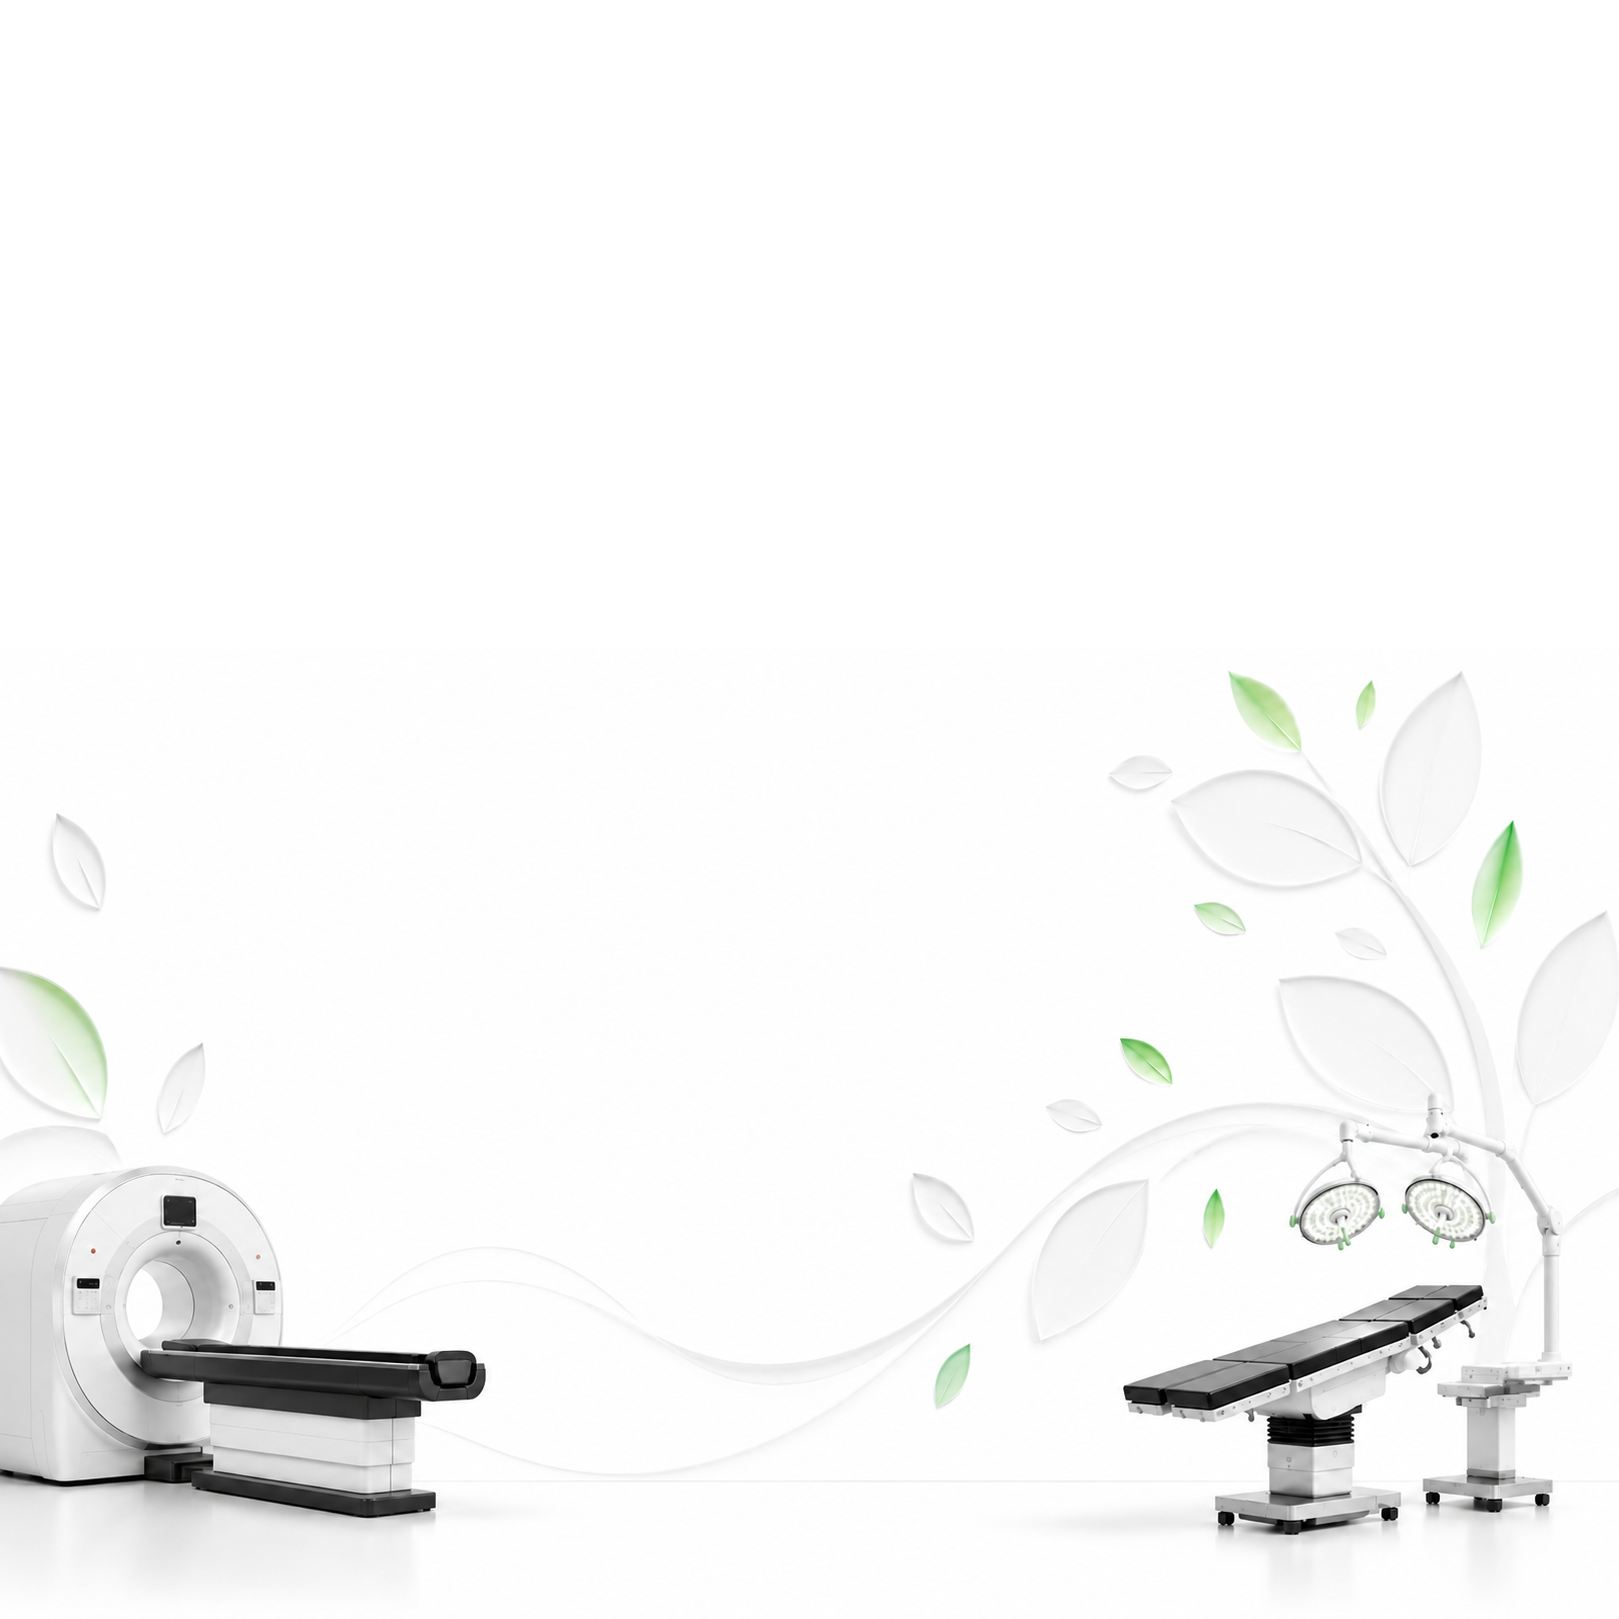
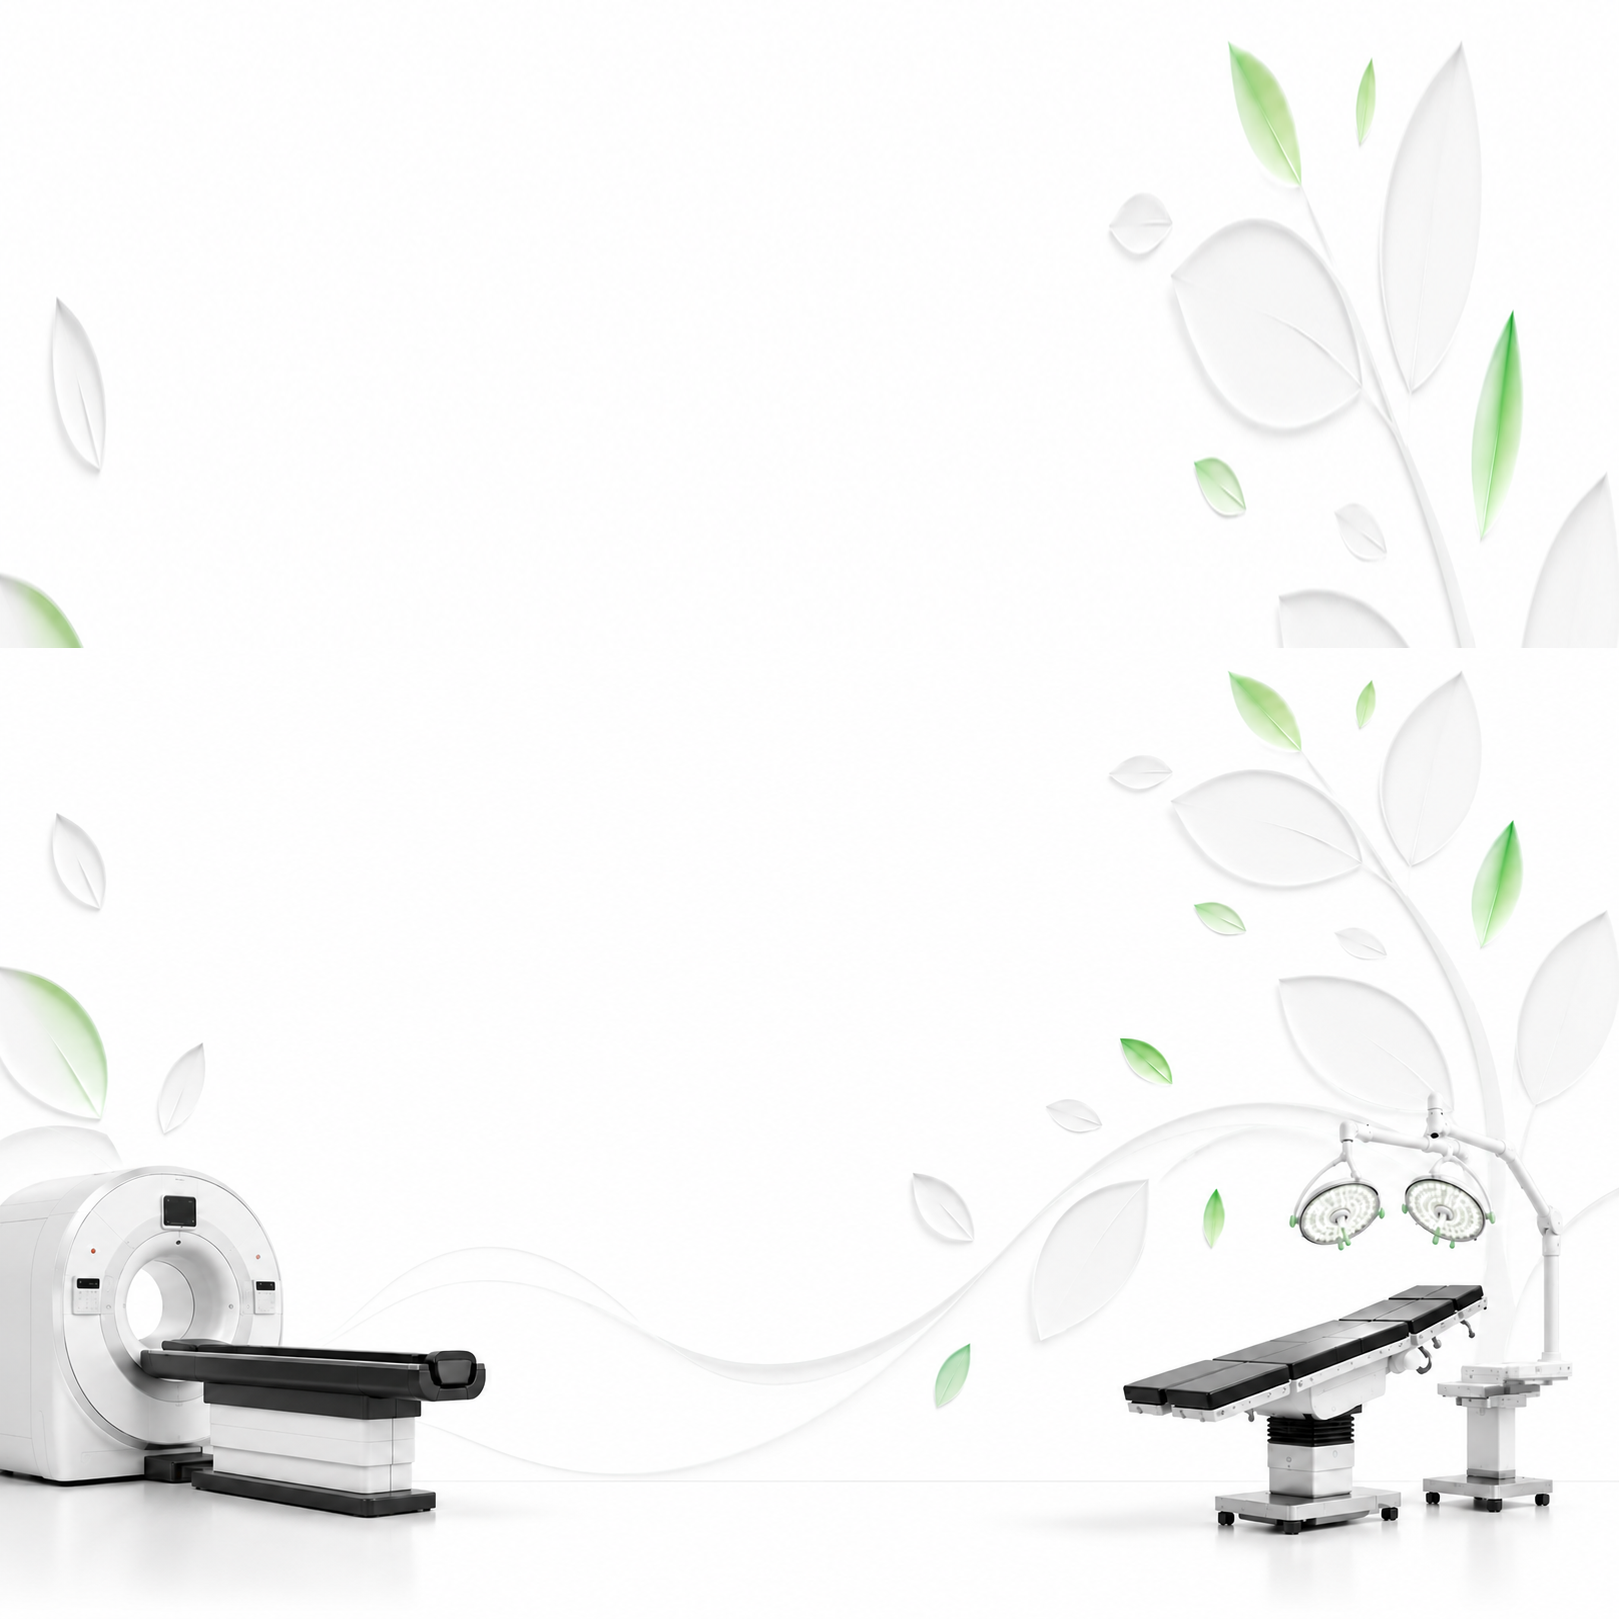
fix: extend leafy pattern behind mobile hero text and lower it

diff --git a/frontend/src/components/Hero.jsx b/frontend/src/components/Hero.jsx
@@ -29,7 +29,7 @@ export default function Hero({ className = '' }) {
       />
 
       {/* Real text content */}
-      <div className="absolute inset-0 flex flex-col items-center justify-start pt-[14%] md:pt-[24vh] px-5 text-center">
+      <div className="absolute inset-0 flex flex-col items-center justify-start pt-[20%] md:pt-[24vh] px-5 text-center">
         <h1 className="text-3xl md:text-6xl lg:text-7xl font-extrabold text-[var(--text-dark)] leading-tight mb-3">
           {t('heroTitle1')}
         </h1>
